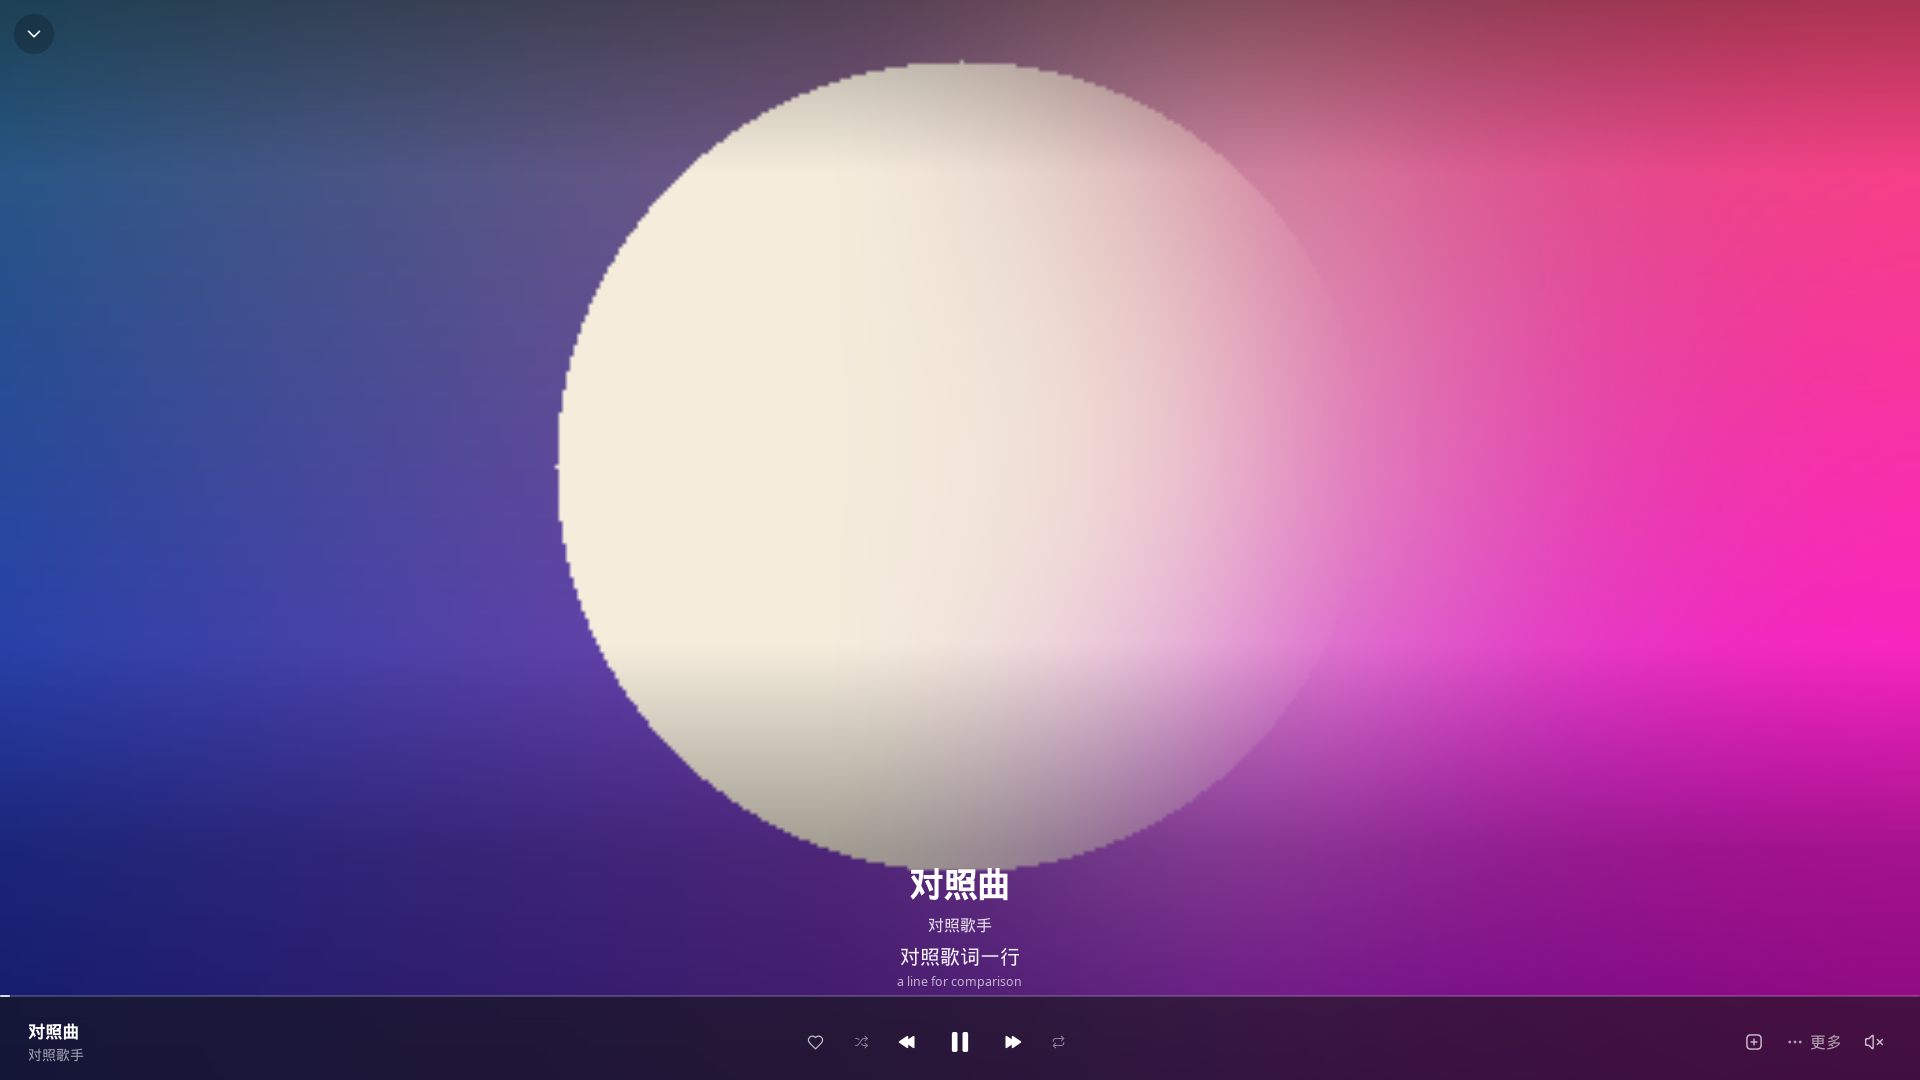
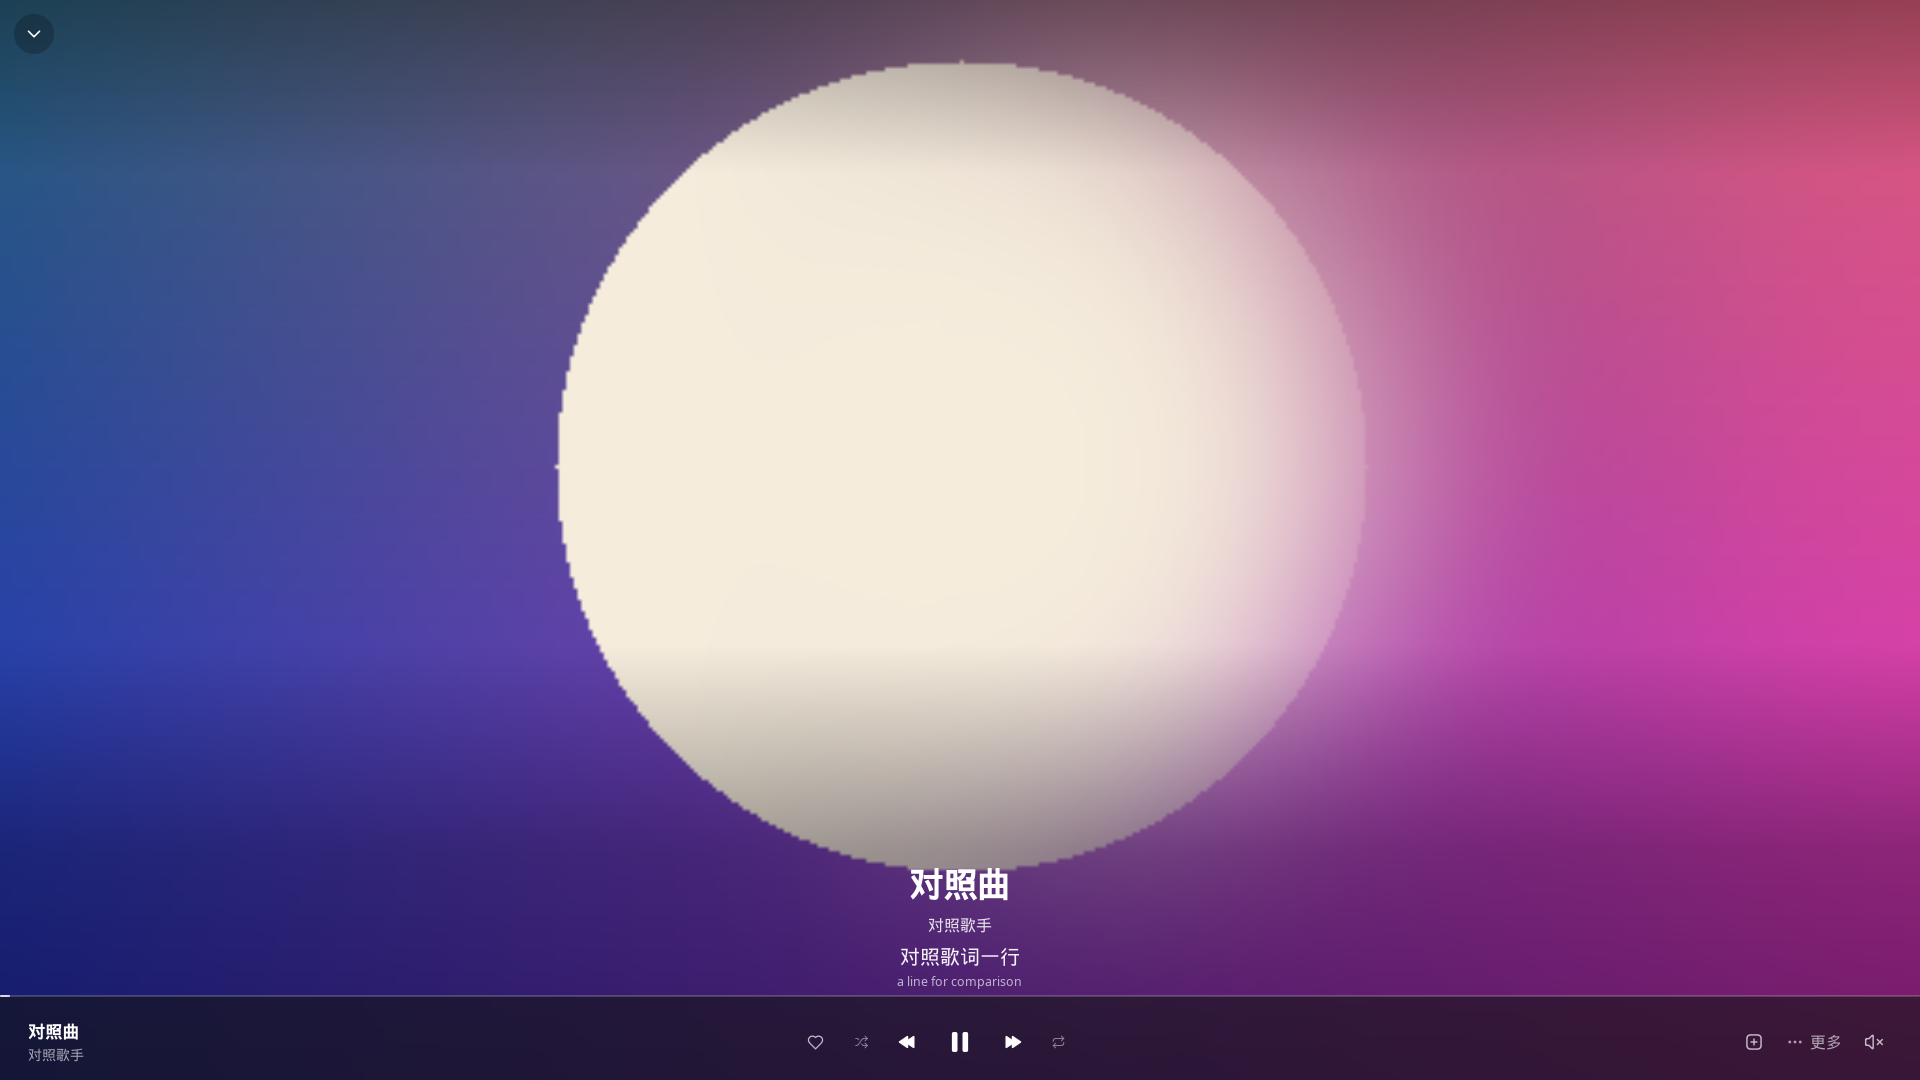
Defocus the wide playing-page cover from the real art
The soft side was a 48px saturated wash, so a wide window stopped
looking like the same cover. Use a 256px defocus of the album bitmap
and keep the left third sharp. Leave the 84px bar and the unused tilt
card alone.

diff --git a/internal/app/artwork.go b/internal/app/artwork.go
@@ -18,11 +18,13 @@ import (
 )
 
 // artwork is a cover, decoded and ready to draw, with what the player
-// derives from it: its color, and a blurred copy to fill a backdrop.
+// derives from it: its color, a small blurred copy for the faint backdrop
+// wash, and a larger defocus of the same picture for the wide playing page.
 type artwork struct {
 	bmp      *ui.Bitmap
 	backdrop *ui.Bitmap
-	tint     ui.Color // the cover's most vivid color
+	stage    *ui.Bitmap // the cover out of focus, for the wide playing page
+	tint     ui.Color   // the cover's most vivid color
 	failed   bool
 	used     time.Time // when it was last asked for
 }
@@ -102,12 +104,13 @@ func (c *artCache) get(url string, backdrop bool) *artwork {
 	go func() {
 		bmp, img, err := loadArt(url)
 		<-c.sem
-		var blurred *image.RGBA
+		var blurred, stage *image.RGBA
 		var tint ui.Color
 		if err == nil {
 			tint = dominantColor(img)
 			if backdrop {
 				blurred = blurImage(img)
+				stage = stageBlur(img)
 			}
 		}
 		c.post(func() {
@@ -120,6 +123,9 @@ func (c *artCache) get(url string, backdrop bool) *artwork {
 			a := &artwork{bmp: bmp, tint: tint, used: c.now()}
 			if blurred != nil {
 				a.backdrop = ui.NewBitmap(blurred)
+			}
+			if stage != nil {
+				a.stage = ui.NewBitmap(stage)
 			}
 			c.art[key] = a
 			// Shown by the frame post draws, the cover drops its pixels,
@@ -321,6 +327,32 @@ func hsv(r, g, b float64) (h, s, v float64) {
 		h += 360
 	}
 	return h, s, v
+}
+
+// stageBlur is the cover for the soft side of a wide playing page: the
+// same picture, large enough that a face or a disc is still that shape,
+// only out of focus, in its own colors. The 48px blurImage is the faint
+// wash under the page, and is too small and too saturated to stand in for
+// this.
+func stageBlur(img image.Image) *image.RGBA {
+	const n = 256
+	small := shrink(img, n)
+	px := make([][3]float64, n*n)
+	for i := range px {
+		px[i] = [3]float64{float64(small.Pix[4*i]), float64(small.Pix[4*i+1]), float64(small.Pix[4*i+2])}
+	}
+	tmp := make([][3]float64, n*n)
+	for range 3 {
+		boxBlur(px, tmp, n, 14)
+	}
+	out := image.NewRGBA(image.Rect(0, 0, n, n))
+	for i, p := range px {
+		for c := range 3 {
+			out.Pix[4*i+c] = uint8(math.Max(0, math.Min(255, p[c])))
+		}
+		out.Pix[4*i+3] = 255
+	}
+	return out
 }
 
 // blurImage returns img shrunk and blurred, more saturated, to fill a

diff --git a/internal/app/np_test.go b/internal/app/np_test.go
@@ -3,6 +3,7 @@ package app
 import (
 	"fmt"
 	"image"
+	"image/color"
 	"image/png"
 	"os"
 	"path/filepath"
@@ -39,6 +40,61 @@ func TestFullCoverShowsWhileHighResolutionLoads(t *testing.T) {
 	r, g, _, _ = tt.Image().At(200, 200).RGBA()
 	if g <= r || g < 0x4000 {
 		t.Fatal("high-resolution cover did not replace the ordinary cover")
+	}
+}
+
+// A wide playing page keeps the left of the cover sharp and defocuses that
+// same picture toward the right. A square window stays sharp across.
+func TestWideCoverSoftensTowardTheRight(t *testing.T) {
+	a := newTestApp()
+	a.settings = defaultSettings()
+	const n = 64
+	img := image.NewRGBA(image.Rect(0, 0, n, n))
+	for y := range n {
+		for x := range n {
+			c := color.RGBA{0, 210, 220, 255}
+			if x >= n/2 {
+				c = color.RGBA{210, 0, 200, 255}
+			}
+			img.SetRGBA(x, y, c)
+		}
+	}
+	bmp := ui.NewBitmap(img)
+	const pic = "split-cover"
+	a.art.art[netease.Sized(pic, 600)+"#backdrop"] = &artwork{bmp: bmp, stage: ui.NewBitmap(stageBlur(img))}
+	a.art.art[netease.Sized(pic, 1536)] = &artwork{bmp: bmp}
+	for range cap(a.art.sem) {
+		a.art.sem <- struct{}{}
+	}
+	a.pl.Cue([]netease.Track{{ID: 1, Name: "对照", Album: netease.Album{PicURL: pic}, Duration: 200000}})
+	a.pl.SetLyrics(nil)
+	a.nowPlaying = true
+
+	sample := func(tt *ui.Tester, xf, yf float64) (r, g, b uint32) {
+		t.Helper()
+		img := tt.Image()
+		bounds := img.Bounds()
+		r, g, b, _ = img.At(bounds.Min.X+int(float64(bounds.Dx())*xf), bounds.Min.Y+int(float64(bounds.Dy())*yf)).RGBA()
+		return r, g, b
+	}
+	wide := nowPlayingFrameAt(t, a, 1280, 720)
+	lr, lg, lb := sample(wide, 0.12, 0.28)
+	if lg < 0x8000 || lb < 0x8000 || lr > lg/2 {
+		t.Fatalf("left of a wide cover is not the sharp picture: rgb %d %d %d", lr, lg, lb)
+	}
+	_, mg, _ := sample(wide, 0.54, 0.28)
+	if mg < 0x800 {
+		t.Fatalf("the cover did not soften toward the right: green %d", mg)
+	}
+	fr, fg, fb := sample(wide, 0.92, 0.28)
+	if fr < 0x6000 || fb < 0x6000 || fg > fr/2 {
+		t.Fatalf("the right edge is no longer the cover's right side: rgb %d %d %d", fr, fg, fb)
+	}
+
+	square := nowPlayingFrameAt(t, a, 800, 800)
+	_, sg, _ := sample(square, 0.54, 0.28)
+	if sg > 0x400 {
+		t.Fatalf("a square cover softened toward the right: green %d", sg)
 	}
 }
 

diff --git a/internal/app/ui_immersive.go b/internal/app/ui_immersive.go
@@ -50,11 +50,14 @@ func Fragment(dst vec4, pos vec2) vec4 {
 	k1 := max(s.x/c1.x, s.y/c1.y)
 	o1 := (s - c1*k1) * 0.5
 	blur := image1Sample((pos - o1) / k1)
-	// A wide view keeps the picture whole at its left and eases it into
-	// its blur before its right; a taller one keeps it whole.
+	// A wide view keeps the picture sharp through the left third and lets
+	// it fall out of focus across the rest, so the right, where the words
+	// sit, is the same cover softened rather than a second picture. A
+	// taller view keeps the cover sharp across. The split is a stand-in
+	// for the official player's until a capture says otherwise.
 	t := 0.0
 	if s.x > s.y*1.15 {
-		t = smoothstep(0.42, 0.72, pos.x/s.x)
+		t = smoothstep(0.34, 0.80, pos.x/s.x)
 	}
 	return mix(sharp, blur, t)
 }
@@ -68,9 +71,10 @@ var blendShader = sync.OnceValue(func() *shader.Shader { return shader.MustCompi
 // picture.
 func (a *app) immersive(c *ui.Context, tr *netease.Track, art *artwork, accent ui.Color, w, h float32) {
 	// The picture itself, over the backdrop the view keeps behind it: the
-	// cover sharp and its own blur, the two of one size, that the left of
-	// a wide view is the picture and its right the softness of the same
-	// one. Until the blur has loaded, the sharp stands for it.
+	// real cover, sharp, and the same cover defocused, mapped the same
+	// way, so a wide view is one picture falling out of focus toward the
+	// right. The small saturated wash is not this blur. Until the defocus
+	// has loaded, the sharp cover stands for it.
 	sharp := bitmap(a.art.get(netease.Sized(tr.Album.PicURL, 1536), false))
 	if sharp == nil {
 		sharp = bitmap(art)
@@ -80,8 +84,8 @@ func (a *app) immersive(c *ui.Context, tr *netease.Track, art *artwork, accent u
 			return
 		}
 		soft := sharp
-		if art != nil && art.backdrop != nil {
-			soft = art.backdrop
+		if art != nil && art.stage != nil {
+			soft = art.stage
 		}
 		blendShader().Draw(p, r, shader.Options{Images: [4]*ui.Bitmap{sharp, soft}})
 	})

diff --git a/internal/app/parity_frames_test.go b/internal/app/parity_frames_test.go
@@ -28,6 +28,7 @@ func TestNowPlayingAspectFrames(t *testing.T) {
 	cover := parityCover()
 	bmp := ui.NewBitmap(cover)
 	soft := ui.NewBitmap(blurImage(cover))
+	stage := ui.NewBitmap(stageBlur(cover))
 	tint := dominantColor(cover)
 	const pic = "parity-cover"
 	scenes := []struct {
@@ -49,7 +50,7 @@ func TestNowPlayingAspectFrames(t *testing.T) {
 	for _, scene := range scenes {
 		a := newTestApp()
 		a.settings = defaultSettings()
-		a.art.art[netease.Sized(pic, 600)+"#backdrop"] = &artwork{bmp: bmp, backdrop: soft, tint: tint}
+		a.art.art[netease.Sized(pic, 600)+"#backdrop"] = &artwork{bmp: bmp, backdrop: soft, stage: stage, tint: tint}
 		a.art.art[netease.Sized(pic, 1536)] = &artwork{bmp: bmp, tint: tint}
 		a.art.art[netease.Sized(pic, 120)] = &artwork{bmp: bmp, tint: tint}
 		// A size the page does not have stays empty instead of fetching.

diff --git a/internal/app/ui_cover.go b/internal/app/ui_cover.go
@@ -11,6 +11,10 @@ import (
 	"netease-music-mygo/internal/netease"
 )
 
+// npCover is the square card that tilts and flings. The playing page does
+// not build it: that page is the full-window cover in immersive, and this
+// card would replace that picture. It stays for the gesture it implements.
+//
 // The cover of Now Playing is a thing to touch. It tilts toward the
 // pointer in depth, a glare following the pointer over it as light over a
 // card held up. Dragged or swiped across, it swings as it goes, and flung

diff --git a/docs/ui-parity/STATUS.md b/docs/ui-parity/STATUS.md
@@ -13,37 +13,35 @@ The first look at this cloud checkout, then at `106cd3c`, found a clean tree. No
 The page that opens with Ctrl+L is `nowPlayingView` (`internal/app/ui_nowplaying.go`) and `immersive` (`internal/app/ui_immersive.go`).
 
 - The cover is scaled to cover the whole window (proportions kept, edges cropped). It is not a centered square card.
-- Wider than height × 1.15, the same picture stays sharp on the left and eases into a blurred copy between 42% and 72% of the width. Square and tall windows stay sharp across.
-- The blur fed to that mix is a 48×48 image: shrink, raise saturation, three box blurs of radius 5 (`blurImage` in `internal/app/artwork.go`). Scaled up, it can look soft and banded.
+- Wider than height × 1.15, the same picture stays sharp through the left third and falls out of focus from 34% to 80% of the width (`smoothstep` in `blendSource`). Square and tall windows stay sharp across. The crop is still centered cover-fit: proportions kept, overflow cut equally.
+- The soft side is `stageBlur` (`internal/app/artwork.go`): the real cover shrunk to 256×256, three box blurs of radius 14, its own colors. The old 48×48 saturated `blurImage` is only the faint wash under the page, and the shader does not use it. Until `stage` has loaded, the sharp cover stands in for the soft side.
 - Under that, `backdrop` (`internal/app/backdrop.go`) paints a deep gradient of the cover’s main colour, lighter at the top, plus the blurred cover at 10% opacity, into a canvas an eighth of the window across. The full-bleed cover is drawn over it, so the gradient shows only where the cover does not. Comments in `backdrop.go` describe this gradient as matching NetEase’s player; the picture on top is a later full-bleed poster.
 - Title, artist, and the current lyric line are centered just above the bottom bar (name 34px, or 26px when the window is shorter than 680). Lyrics sit in a right column when the window is at least 1120px wide and at least 1.3 times as wide as it is tall; otherwise they are a centered panel.
 - The playing-page bar is now a full-width strip flush with the bottom, 84px tall (`playerBarHeight`), filled with `rgba(20, 20, 22, 0.6)`. It has no cover thumbnail. The song name is 17px and the artist 14px. The progress line is a full-width scrubber along the top edge of that strip (`Top(-8)`). Elapsed and remaining time show only while the pointer is on the scrubber. Transport, like, collect, quality, volume, and “更多” sit in the strip. The back control is a 40px round icon, still labeled “返回”, with no word beside the chevron. The strip hides after 2.75s idle.
 - Opening and closing spring the whole layer from 60px below (`npSpring`, 450ms, bounce 0.08).
 
-`5b786a7` changed type sizes and this bar. It did not change `blendSource`, `blurImage`, `backdrop`, or `npCover`. The crop and the wide-window blur are the same as on `106cd3c`.
+`5b786a7` changed type sizes and this bar. The cover fill on top of that is now the defocus above. The 84px bar is unchanged.
 
-`npCover` in `internal/app/ui_cover.go` still implements a square cover that tilts, glares, and flings to the next song. No caller builds it. A comparison that expects that card will not see it on this tree.
+`npCover` in `internal/app/ui_cover.go` is the square card that tilts and flings. The playing page does not build it. Putting that card on the page would replace the full-window cover. The picture on screen is the real album bitmap in `immersive`.
 
 The bar on ordinary pages (`playerBar` in `internal/app/ui_player.go`) is a separate 84px strip. Its progress line is also full width, along the top of the strip, and the strip is a solid page background with a hairline instead of the old frosted scroll edge. It is not built while the playing page has settled, so the frames below do not show it.
 
 Likely places a paired screenshot will disagree, to confirm rather than to fix yet:
 
-1. Official art is often a sharp square over a blurred full-window field. Here the sharp (cropped) cover is the field, and blur is only the right-hand mix on wide windows.
-2. Blur radius and resolution: 48×48 and a short box blur, against whatever the official client blurs on the GPU.
-3. Motion: no disc spin and no pointer tilt on the page that actually shows. The unused `npCover` path is the one with tilt.
-4. Text sits low and centered instead of in a column beside a card. Lyric layout changes at the thresholds above, so 16:9 and 1:1 are different structures, not the same layout scaled.
-
-No visual constants were changed in this pass. A restyle needs the official stills.
+1. Official art is often described as one picture, sharper on one side. Here that side is the left, and the right is the same centered crop out of focus. A square card over a fully blurred field is the unused `npCover` path.
+2. The falloff (sharp until 34% of the width, fully soft by 80%) and the box blur are stand-ins. See the questions below.
+3. Motion: no disc spin and no pointer tilt on the page that actually shows.
+4. Text sits low and centered. Lyric layout still changes with the thresholds above. The bar was not part of this pass.
 
 ## Screenshots from this VM
 
 The official NetEase Windows client does not run here. This app was not logged in and was not given a live song.
 
-`ui.NewTester` drew the playing page without a window. `TestNowPlayingAspectFrames` was run again after the rebase onto `5b786a7`, with `NM_FRAMES` set to `docs/ui-parity/frames/mygo` (five times). The cover is synthetic: a 512×512 wash, a disc, and a red square at the cover’s top left. The PNGs are this app only. Crop and blur match the earlier frames; the bar is the full-width strip from `5b786a7`.
+`ui.NewTester` drew the playing page without a window. `TestNowPlayingAspectFrames` was run again after the cover change, with `NM_FRAMES` set to `docs/ui-parity/frames/mygo`. The cover is synthetic: a 512×512 wash, a disc, and a red square at the cover’s top left. The PNGs are this app only. The bar is still the full-width strip from `5b786a7`.
 
 What those frames show, which matches the code above:
 
-- `16x9-1280x720.png` and `16x9-1920x1080.png`: the disc’s left edge stays sharp and its right side dissolves into the blurred wash. The red square is cropped off the top.
+- `16x9-1280x720.png` and `16x9-1920x1080.png`: the disc’s left edge stays sharp and its right edge softens into the same picture, still a disc. The red square is cropped off the top.
 - `4x3-1024x768.png` and `default-1180x780.png`: same side blur. The red square is cut by the top edge.
 - `1x1-800x800.png` and `1x1-1080x1080.png`: the red square is fully in frame, and the disc stays sharp all the way around. No side blur.
 - `9x16-720x1280.png`: the red square is cropped off the side. The disc stays sharp.
@@ -51,13 +49,19 @@ What those frames show, which matches the code above:
 - `lyrics-1x1-800x800.png`: the lyric line sits in a centered dark panel.
 - The bottom strip is full width, flush with the window, and has no cover thumbnail. The pointer in these frames sits in the middle of the picture, so the time tooltip on the progress line is not showing. Controls are the awake state. Nothing here is a recording of the open or close spring.
 
-Left-edge stair-steps, where the disc is sharp, come from drawing a 512×512 fixture into a larger window. A real 1536 cover would be smoother there. The soft right side is the 48×48 blur, not that upscale.
+Left-edge stair-steps, where the disc is sharp, come from drawing a 512×512 fixture into a larger window. A real 1536 cover would be smoother there. The soft right side is the 256×256 defocus.
 
 ## Tests on this VM
 
-After the rebase onto `5b786a7`, `NM_FRAMES="$PWD/docs/ui-parity/frames/mygo" go test ./internal/app/ -run TestNowPlayingAspectFrames -count=5` was run again. The test still compiles: it drives `nowPlayingView` and does not call `scrubber` or `collectButton`, whose signatures changed in `5b786a7`.
+`TestWideCoverSoftensTowardTheRight` passed five times: on a wide window the left stays the sharp cover and a point in the falloff picks up the other half; a square window does not. `TestFullCoverShowsWhileHighResolutionLoads` still passes. `TestNowPlayingAspectFrames` was run with `NM_FRAMES` set to `docs/ui-parity/frames/mygo`. `go test ./internal/app/ -skip TestNotch` passed.
 
-`go test ./internal/...` on this tip failed in `TestNotchGreetsOnce` and `TestNotchGreetingKeptUnderPointer`. Both attach a real audio output, and this VM has no ALSA device (`Unknown PCM default`), so the notch never greets. That is independent of the playing page. `internal/lyrics`, `internal/netease`, `internal/player`, and `internal/speech` passed. The same two tests failed the same way on `106cd3c`.
+## Open questions
+
+These are the official details this pass did not guess past. The numbers above are the stand-in.
+
+1. On a wide window, should the cover stay center-cropped (what this page does), or should the left edge of the art stay pinned to the left of the window?
+2. How far across should the picture stay fully sharp? This page is sharp until 34% of the width and fully soft by 80%.
+3. How strong is the soft side: a light defocus that still reads as the photo, or a heavy blur? This page is three box passes of radius 14 on a 256×256 copy.
 
 ## Next, on the Windows machine
 

diff --git a/docs/ui-parity/CHECKLIST.md b/docs/ui-parity/CHECKLIST.md
@@ -67,7 +67,7 @@ Check each pair, official on the left. Write a one-line note in STATUS rather th
 - Does blur fill the window behind a sharp card, or is the sharp picture itself the background?
 - How heavy is the blur, and does it band or look like a small image scaled up?
 - Is there a separate colour wash (a gradient of one hue) on top of the blur?
-- This app paints a gradient backdrop in `backdrop.go`, then draws the cover over the whole window. On a wide window the shader keeps the cover sharp on the left and mixes in a 48×48 blurred copy from 42% to 72% of the width (`blendSource` in `ui_immersive.go`). The mix runs only when width > height × 1.15. Square and tall windows stay sharp. The blur is three box passes of radius 5 on a 48×48 shrink, with saturation pushed (`blurImage` in `artwork.go`).
+- This app paints a gradient backdrop in `backdrop.go`, then draws the real cover over the whole window, center-cropped. On a wide window the shader keeps that cover sharp until 34% of the width and mixes in a defocus of the same picture by 80% (`blendSource` in `ui_immersive.go`). The mix runs only when width > height × 1.15. Square and tall windows stay sharp. The defocus is three box passes of radius 14 on a 256×256 copy, in the cover’s own colors (`stageBlur` in `artwork.go`). The older 48×48 saturated blur is only the faint wash underneath.
 
 **Type and controls**
 
